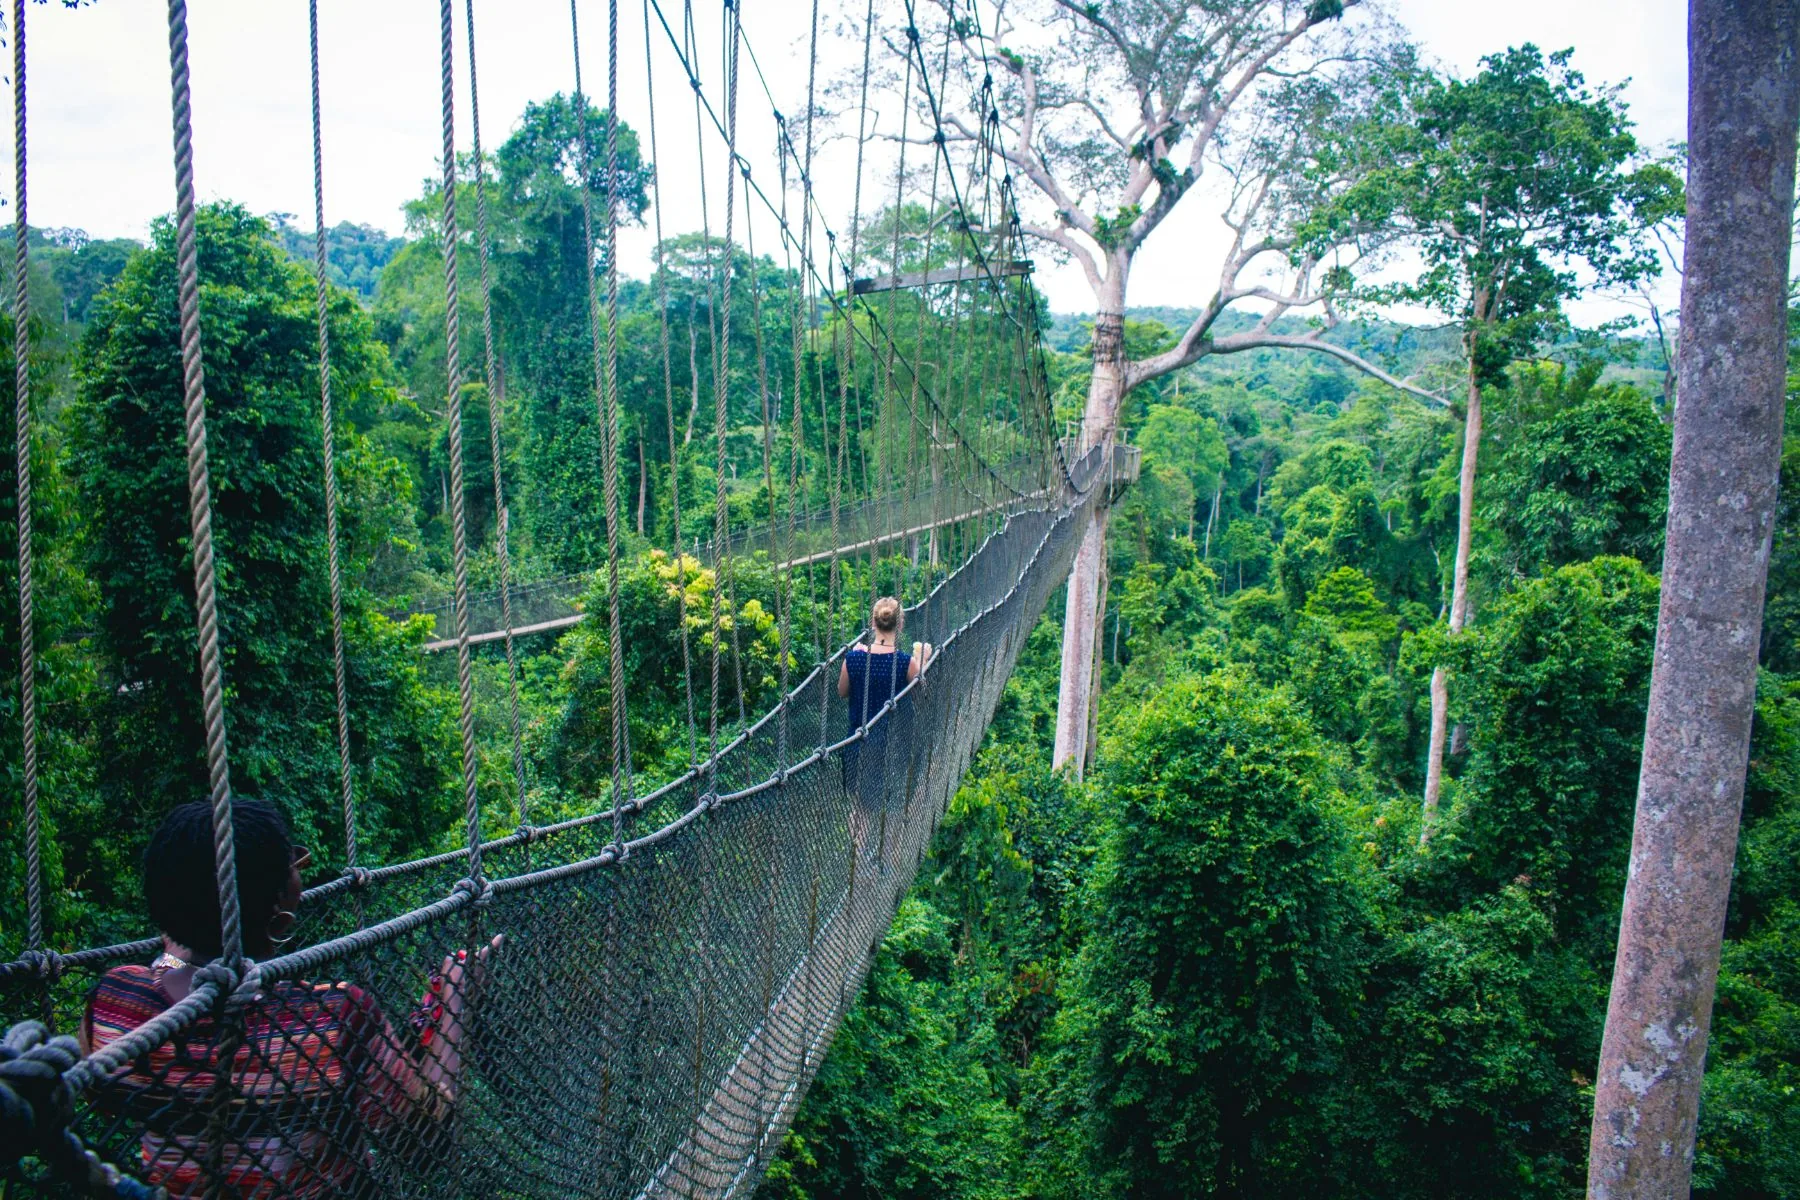
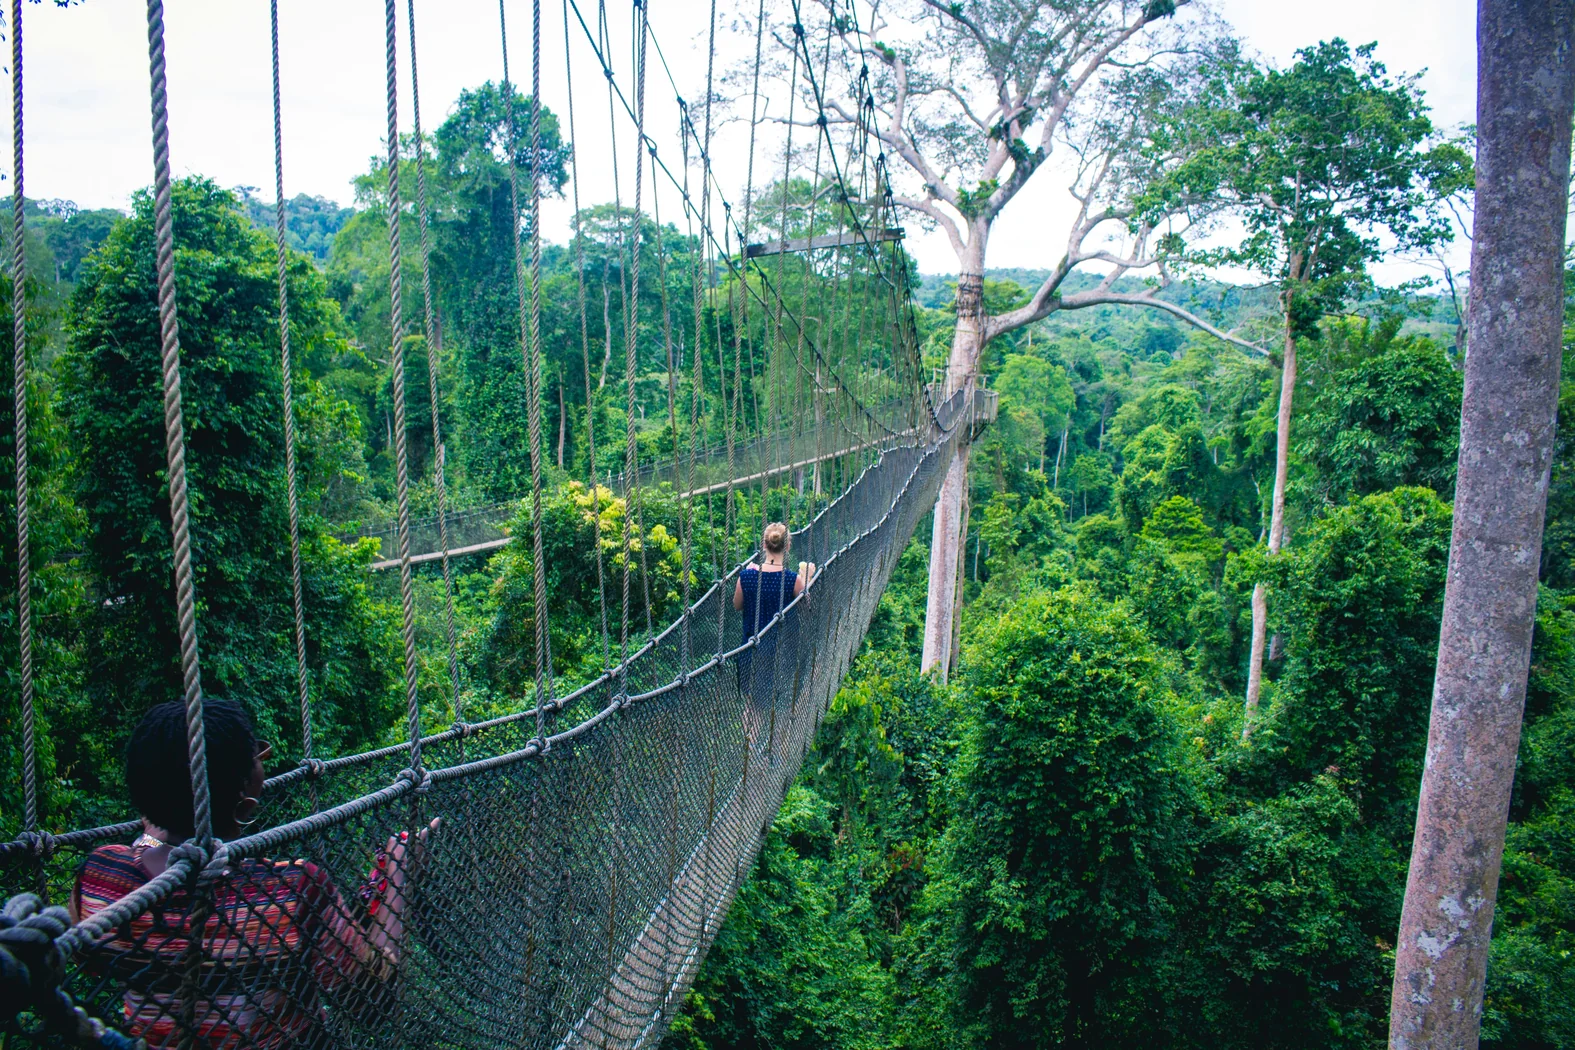
ii-2 homepage deployment

diff --git a/style.css b/style.css
@@ -4,7 +4,7 @@ Theme URI: https://braveheartspublishing.com
 Author: Brave Hearts Publishing
 Author URI: https://braveheartspublishing.com
 Description: Custom theme for Brave Hearts Publishing — Adventures of Charlotte and Henry. Big Places. Brave Hearts.
-Version: 1.14.4
+Version: 1.14.5
 Requires at least: 6.0
 Tested up to: 6.5
 Requires PHP: 7.4
@@ -3177,6 +3177,94 @@ input[type='submit'],
   .home .home-hero__book-stack a:hover,
   .home .home-hero__book-stack a:focus-visible {
     transform: none;
+  }
+}
+
+/* PDF comparison corrections: hero labels, destination field, and jungle bridge image. */
+.home .home-hero__book-preview {
+  gap: 0;
+}
+.home .home-hero__book-preview-label {
+  position: relative;
+  z-index: 6;
+  width: 100%;
+  margin-top: 56px;
+  color: rgba(196, 161, 92, .82);
+  text-align: center;
+}
+.home .home-hero__destinations {
+  display: grid;
+  width: max-content;
+  max-width: none;
+  grid-template-columns: repeat(3, max-content);
+  column-gap: 24px;
+  row-gap: 0;
+  white-space: nowrap;
+}
+.home .home-hero__destinations li {
+  min-width: 0;
+  padding-right: 24px;
+}
+.home .home-hero__destinations li:last-child {
+  padding-right: 0;
+}
+.home .home-destinations {
+  background-color: #06131f !important;
+  background-image: linear-gradient(180deg, rgba(6, 19, 31, .94) 0%, rgba(4, 11, 19, .99) 100%), url('assets/images/handoff/hero-ocean.webp') !important;
+  background-position: center top, center bottom !important;
+  background-repeat: no-repeat !important;
+  background-size: auto, cover !important;
+}
+.home .home-destinations::before {
+  display: block !important;
+  position: absolute;
+  inset: 0;
+  z-index: 0;
+  background: linear-gradient(180deg, rgba(6, 19, 31, .1), rgba(4, 11, 19, .35));
+  content: '';
+  pointer-events: none;
+}
+.home .home-destinations > * {
+  position: relative;
+  z-index: 1;
+}
+.home .home-destinations .component-heading,
+.home .home-destinations .component-heading > *,
+.home .home-destinations .text-section-title,
+.home .home-destinations .component-heading__intro,
+.home .home-destinations__promise {
+  background: transparent !important;
+}
+.home .home-destinations .component-heading__eyebrow,
+.home .home-destinations__promise {
+  color: #c4a15c !important;
+}
+.home .home-destinations .text-section-title {
+  color: #fff !important;
+  text-shadow: 0 2px 22px rgba(0, 0, 0, .5);
+}
+.home .home-destinations .component-heading__intro {
+  color: rgba(255, 255, 255, .7) !important;
+}
+.home .home-together {
+  background-color: #0a2219 !important;
+  background-image: linear-gradient(100deg, rgba(10, 26, 18, .94) 0%, rgba(12, 30, 20, .78) 42%, rgba(14, 34, 22, .34) 100%), url('assets/images/handoff/canopy-walk.webp') !important;
+  background-position: center center, center 42% !important;
+  background-size: auto, cover !important;
+}
+@media (max-width: 1100px) {
+  .home .home-hero__destinations {
+    column-gap: 16px;
+    transform: scale(.92);
+    transform-origin: left center;
+  }
+}
+@media (max-width: 768px) {
+  .home .home-hero__book-preview-label {
+    margin-top: 30px;
+  }
+  .home .home-hero__destinations {
+    display: none;
   }
 }
 